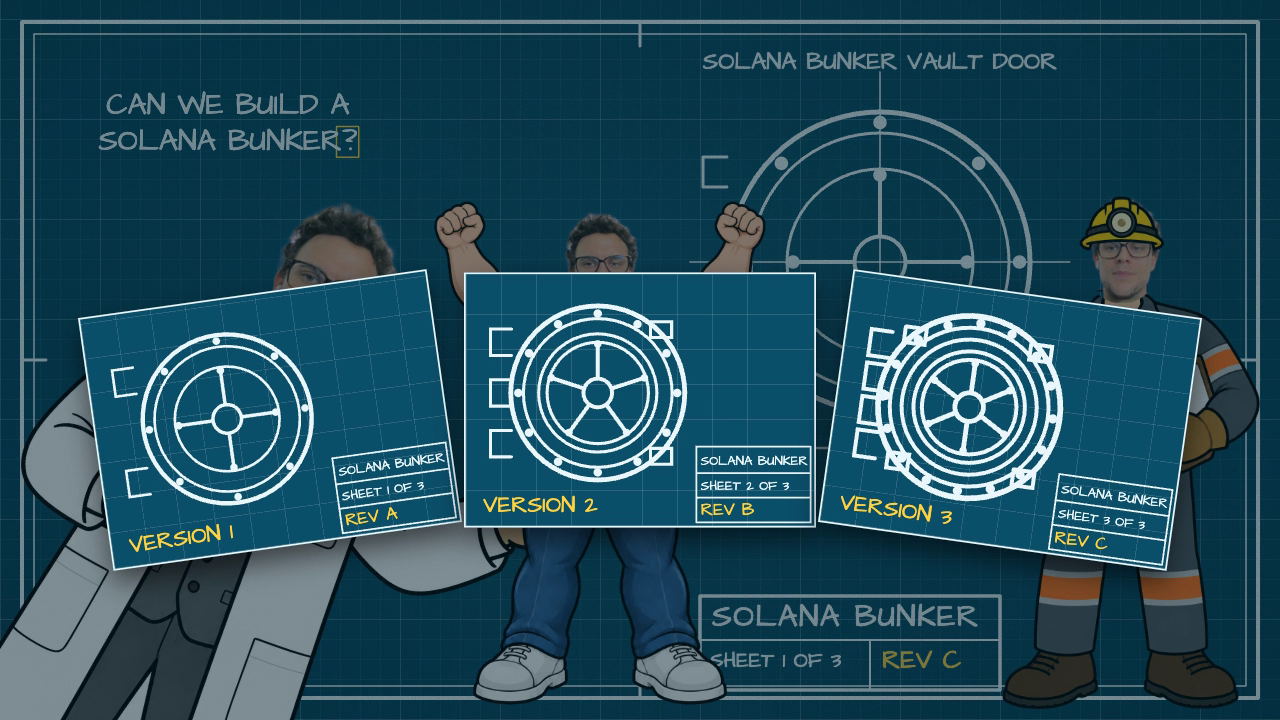
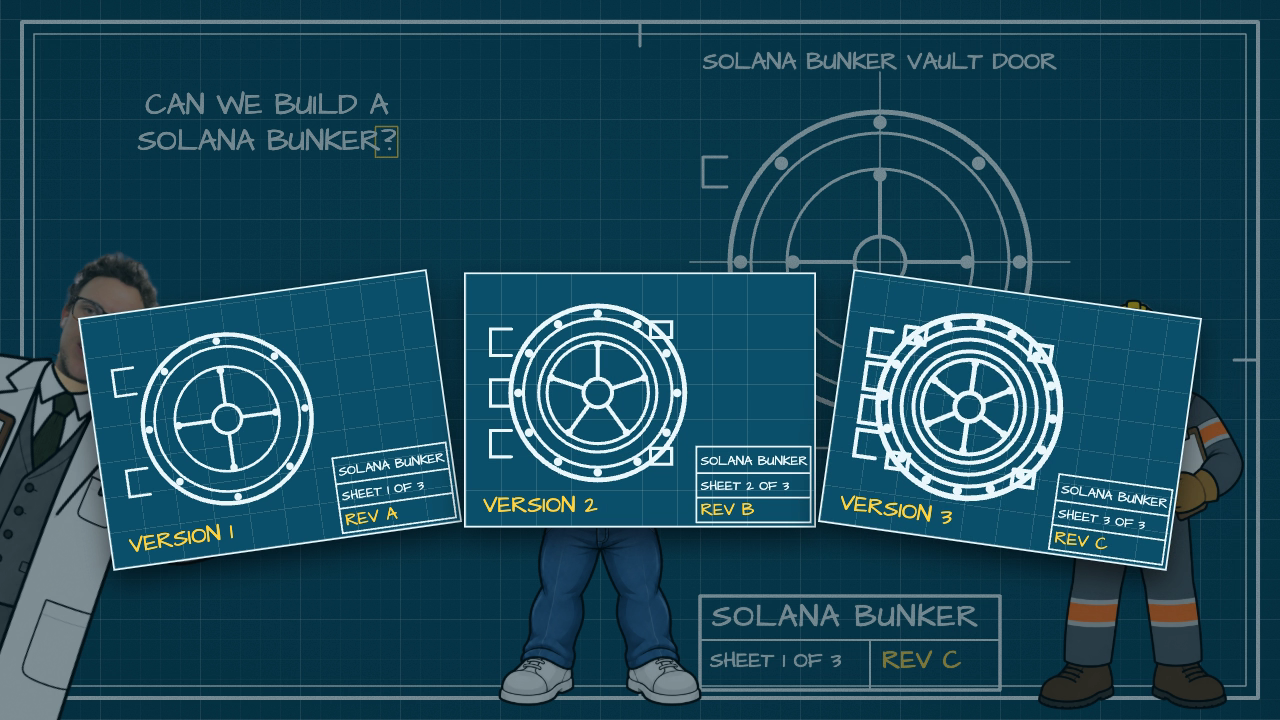
film: slide 5 v3 (opening is the last frame of slide 4 v3, S4_END_POSE re-matched to the 80% narrator)

diff --git a/apps/web/film/s05-hash.html b/apps/web/film/s05-hash.html
@@ -123,11 +123,11 @@ const END = S.total;
 const TB = (t) => Math.min(t, T.freeze);       // the board's clock: it stops dead at the robbery
 
 // ======================= slide-4 handoff =======================
-// The opening frame is the real last frame of slide 4 (assets/s05/handoff-s04-end.png = last frame of out/s04-bunker-v2.mp4, branch film/s04 c150d80). The lab coat narrator
+// The opening frame is the real last frame of slide 4 (assets/s05/handoff-s04-end.png = last frame of out/s04-bunker-v3.mp4, branch film/s04 c5b141b). The lab coat narrator
 // is drawn UNDER that image at exactly the physicist's end pose, so as the frame fades out (T.s4Out) the live figure is already standing where he stood.
-// S4_END_POSE: derived from s04-bunker.html (physicist: place(147, 670, rot 25, scale 1), k = .5795, pivot (395,900) body px) -> expressed on this scene's figure
-// pivot (512,1000 body px): x = 147 + R(25deg)*k*(117,100) = 183.96, y = 751.17, r = 25, s = .5795. Matched on the frame by overlay (see report).
-const S4_END_POSE = { pose: 'professor-point', x: 183.96, y: 751.17, r: 25, s: 0.5795, flip: 1 };
+// S4_END_POSE: slide 4 v3 places the narrator PNG with origin (395,900) at screen (-40,625), 25 deg clockwise, scale .5795*.8 = .4636; expressed on this scene's figure
+// pivot (512,1000 body px): x = -40 + R(25deg)*k*(117,100) = -10.43, y = 689.94. Matched on the frame by overlay (see report).
+const S4_END_POSE = { pose: 'professor-point', x: -10.43, y: 689.94, r: 25, s: 0.4636, flip: 1 };
 
 // ======================= board: static drawing =======================
 const B0 = $('bsvg0'), B1 = $('bsvg1'), X0 = $('btxt0'), X1 = $('btxt1');
